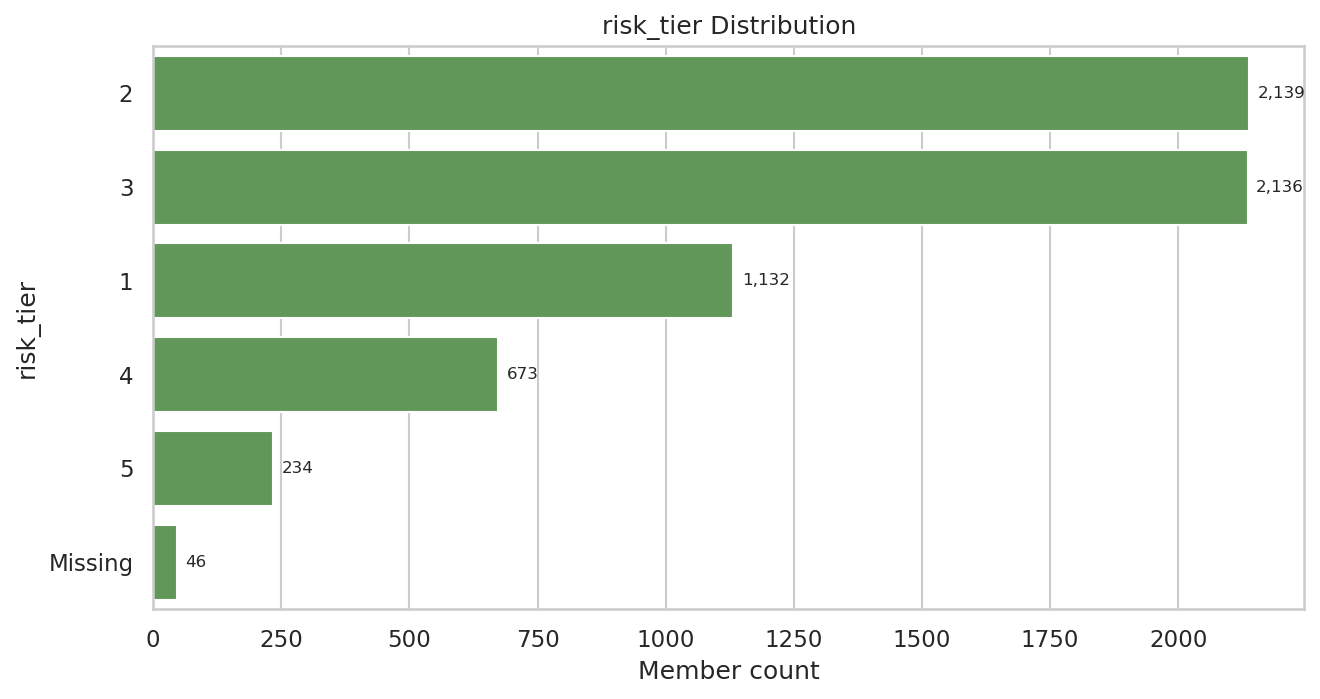
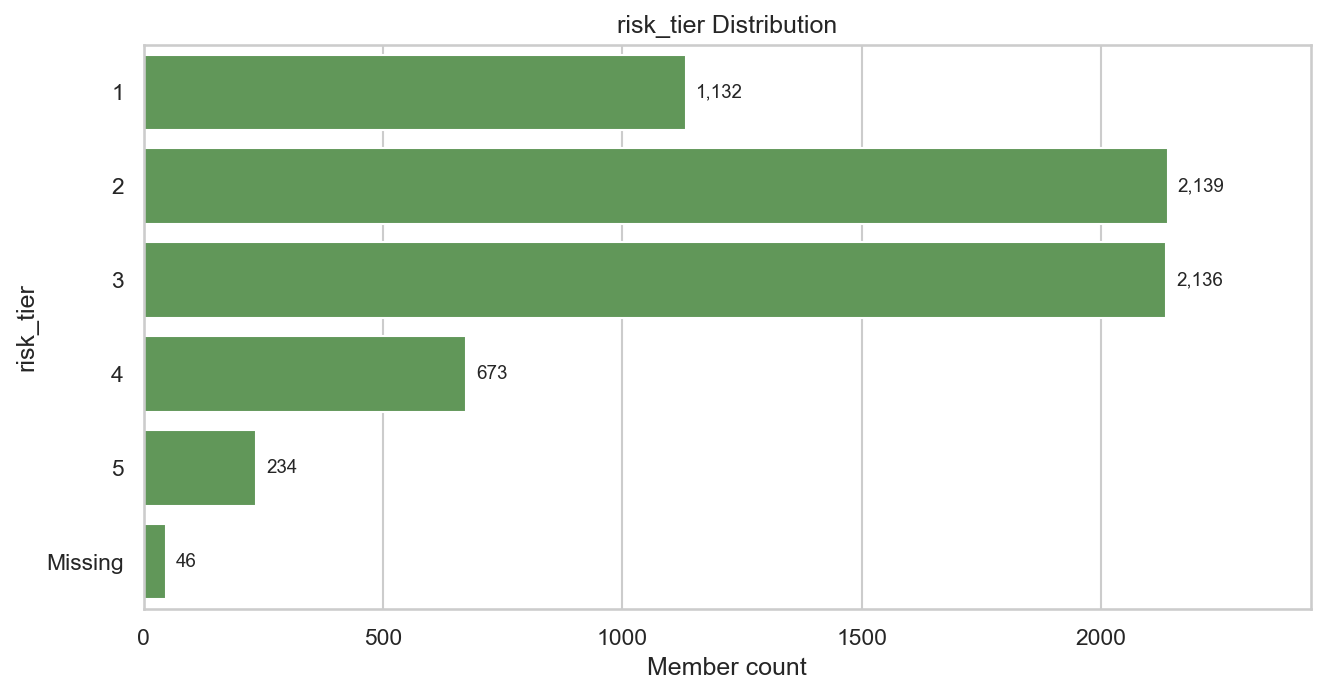
Improve Funds risk tier visualizations

diff --git a/Code/build_funds_uplift_notebook.py b/Code/build_funds_uplift_notebook.py
@@ -643,6 +643,15 @@ for old, new in replacements.items():
     cell31 = cell31.replace(old, new)
 set_cell(notebook, 31, cell31)
 
+cell33 = "".join(notebook["cells"][33]["source"])
+cell33 = cell33.replace(
+    "    counts = values.value_counts()\n",
+    "    counts = values.value_counts()\n"
+    "    if column == 'risk_tier':\n"
+    "        counts = counts.reindex(['1', '2', '3', '4', '5', 'Missing'], fill_value=0)\n",
+)
+set_cell(notebook, 33, cell33)
+
 set_cell(
     notebook,
     87,
@@ -788,6 +797,16 @@ cell89 = cell89.replace(
     "print('Risk tier population summary:')\n",
     "print('Members excluded from the 1-5 risk-tier population summary because tier was missing or invalid:', unassigned_risk_tier_members)\n"
     "print('Risk tier population summary (original Funds tiers 1-5):')\n",
+)
+cell89 = cell89.replace(
+    "tlearner_risk_tier_benefit_group_summary = build_risk_tier_benefit_group_outputs(\n",
+    "tlearner_xgboost_risk_tier_benefit_group_summary = build_risk_tier_benefit_group_outputs(\n"
+    "    results_test_xgboost,\n"
+    "    xgboost_output_folder,\n"
+    "    'tlearner',\n"
+    "    'XGBoost T-learner benefit group distribution by risk tier (test set)',\n"
+    ")\n\n"
+    "tlearner_risk_tier_benefit_group_summary = build_risk_tier_benefit_group_outputs(\n",
 )
 set_cell(notebook, 89, cell89)
 
